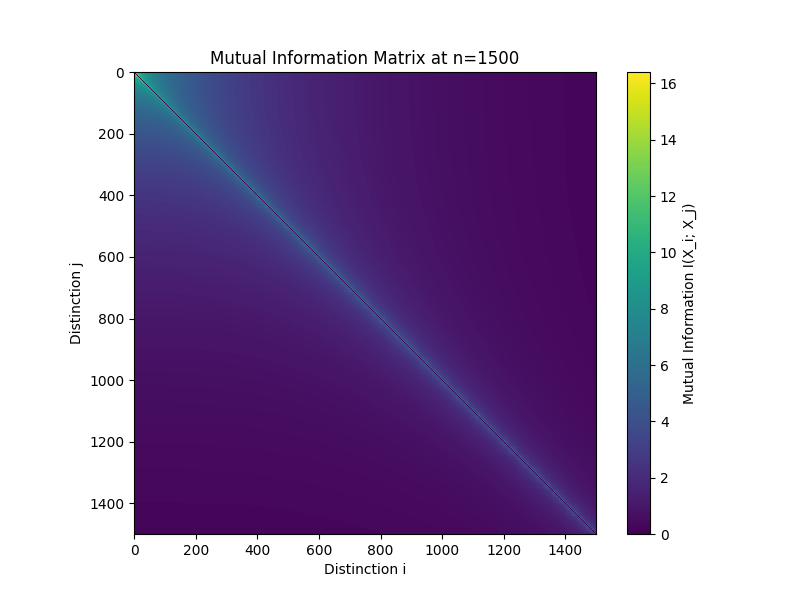
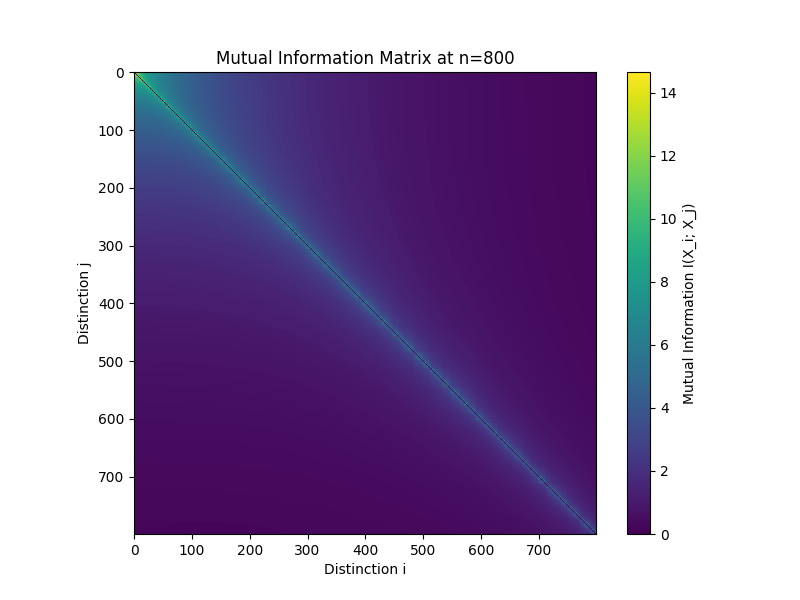
modified:   GU_DIM_Trans.py modified:   eigenvalue_ratios.png modified:   golomb_ruler_growth.png modified:   informational_curvature.png modified:   mutual_information_matrix.png

diff --git a/GU_DIM_Trans.py b/GU_DIM_Trans.py
@@ -100,7 +100,7 @@ def compute_metrics(G):
     return d_min, l_info, R_n, W
 
 def compute_embedding(G, dim):
-    """Compute spectral embedding in 2D or 3D using Laplacian eigenvectors"""
+    """Compute spectral embedding in 2D, 3D, or 4D using Laplacian eigenvectors"""
     n = len(G)
     if n < 2:
         return np.zeros((n, dim))
@@ -121,31 +121,34 @@ def compute_embedding(G, dim):
 def check_transitions(G, d_min, l_info, R_n):
     n = len(G)
     if n < 10:
-        return False, False, 0.0, 0.0
+        return False, False, False, 0.0, 0.0, 0.0
 
     try:
         _, _, _, W = compute_metrics(G)
         D = np.diag(np.sum(W, axis=1))
         L = D - W 
                                                                
-        eigenvalues = eigh(L, eigvals_only=True, subset_by_index=[0, 3])
-        λ0, λ1, λ2, λ3 = eigenvalues
+        eigenvalues = eigh(L, eigvals_only=True, subset_by_index=[0, 4])
+        λ0, λ1, λ2, λ3, λ4 = eigenvalues
 
         λ1 = max(λ1, 1e-8)
         λ2 = max(λ2, 1e-8)
         λ3 = max(λ3, 1e-8)
+        λ4 = max(λ4, 1e-8)
 
         r1 = λ2 / λ1  # For 1D→2D
         r2 = λ3 / λ2  # For 2D→3D
+        r3 = λ4 / λ3  # For 3D→4D
 
         transition_2D = (r1 > 1.3 and R_n > 1.3)
         transition_3D = (r2 > 1.15 and R_n > 2.2)
+        transition_4D = (r3 > 1.01 and R_n > 3.0)
 
-        return transition_2D, transition_3D, r1, r2
+        return transition_2D, transition_3D, transition_4D, r1, r2, r3
                                                                                                    
     except Exception as e:
         print("Error in check_transitions:", e)
-        return False, False, 0.0, 0.0
+        return False, False, False, 0.0, 0.0, 0.0
 
 def validate_golomb(G):
     """Validate that G is a Golomb ruler (all pairwise differences are unique)"""
@@ -161,7 +164,7 @@ def validate_golomb(G):
 def plot_results(G_full, results, metrics_history):
     """Generate and display graphical outputs for Golomb ruler, mutual information, eigenvalues, transitions, and embeddings"""
     n_max = len(G_full)
-    ns, d_mins, l_infos, R_ns, r1s, r2s = metrics_history
+    ns, d_mins, l_infos, R_ns, r1s, r2s, r3s = metrics_history
 
     # Plot 1: Golomb Ruler Growth
     plt.figure(figsize=(10, 6))
@@ -191,12 +194,16 @@ def plot_results(G_full, results, metrics_history):
     plt.figure(figsize=(10, 6))
     plt.plot(ns, r1s, label='λ₂/λ₁ (1D→2D)')
     plt.plot(ns, r2s, label='λ₃/λ₂ (2D→3D)')
+    plt.plot(ns, r3s, label='λ₄/λ₃ (3D→4D)')
     plt.axhline(y=1.3, color='r', linestyle='--', label='1D→2D Threshold (1.3)')
     plt.axhline(y=1.15, color='g', linestyle='--', label='2D→3D Threshold (1.15)')
+    plt.axhline(y=1.1, color='b', linestyle='--', label='3D→4D Threshold (1.1)')
     if results.get('2D') is not None:
         plt.axvline(x=results.get('2D'), color='r', linestyle=':', label=f'1D→2D at n={results.get("2D")}')
     if results.get('3D') is not None:
         plt.axvline(x=results.get('3D'), color='g', linestyle=':', label=f'2D→3D at n={results.get("3D")}')
+    if results.get('4D') is not None:
+        plt.axvline(x=results.get('4D'), color='b', linestyle=':', label=f'3D→4D at n={results.get("4D")}')
     plt.xlabel('Number of Distinctions (n)')
     plt.ylabel('Eigenvalue Ratios')
     plt.title('Eigenvalue Ratios for Dimensional Transitions')
@@ -211,10 +218,13 @@ def plot_results(G_full, results, metrics_history):
     plt.plot(ns, R_ns, label='R_n')
     plt.axhline(y=1.3, color='r', linestyle='--', label='1D→2D Threshold (1.3)')
     plt.axhline(y=2.2, color='g', linestyle='--', label='2D→3D Threshold (2.2)')
+    plt.axhline(y=3.0, color='b', linestyle='--', label='3D→4D Threshold (3.0)')
     if results.get('2D') is not None:
         plt.axvline(x=results.get('2D'), color='r', linestyle=':', label=f'1D→2D at n={results.get("2D")}')
     if results.get('3D') is not None:
         plt.axvline(x=results.get('3D'), color='g', linestyle=':', label=f'2D→3D at n={results.get("3D")}')
+    if results.get('4D') is not None:
+        plt.axvline(x=results.get('4D'), color='b', linestyle=':', label=f'3D→4D at n={results.get("4D")}')
     plt.xlabel('Number of Distinctions (n)')
     plt.ylabel('Informational Curvature (R_n)')
     plt.title('Informational Curvature Evolution')
@@ -257,25 +267,30 @@ def plot_results(G_full, results, metrics_history):
 
 def print_summary(results, metrics_history):
     """Print a summary table of essential calculated values"""
-    ns, d_mins, l_infos, R_ns, r1s, r2s = metrics_history
+    ns, d_mins, l_infos, R_ns, r1s, r2s, r3s = metrics_history
     print("\nSummary of Essential Calculated Values:")
-    print("-" * 50)
-    print(f"{'n':>5} | {'d_min':>8} | {'l_info':>8} | {'R_n':>8} | {'λ₂/λ₁':>8} | {'λ₃/λ₂':>8}")
-    print("-" * 50)
+    print("-" * 60)
+    print(f"{'n':>5} | {'d_min':>8} | {'l_info':>8} | {'R_n':>8} | {'λ₂/λ₁':>8} | {'λ₃/λ₂':>8} | {'λ₄/λ₃':>8}")
+    print("-" * 60)
     
     # Print at 2D transition
     if results["2D"] is not None:
         idx = results["2D"] - 1
-        print(f"{ns[idx]:>5} | {d_mins[idx]:>8.3f} | {l_infos[idx]:>8.3f} | {R_ns[idx]:>8.3f} | {r1s[idx]:>8.3f} | {r2s[idx]:>8.3f} (2D Transition)")
+        print(f"{ns[idx]:>5} | {d_mins[idx]:>8.3f} | {l_infos[idx]:>8.3f} | {R_ns[idx]:>8.3f} | {r1s[idx]:>8.3f} | {r2s[idx]:>8.3f} | {r3s[idx]:>8.3f} (2D Transition)")
     
     # Print at 3D transition
     if results["3D"] is not None:
         idx = results["3D"] - 1
-        print(f"{ns[idx]:>5} | {d_mins[idx]:>8.3f} | {l_infos[idx]:>8.3f} | {R_ns[idx]:>8.3f} | {r1s[idx]:>8.3f} | {r2s[idx]:>8.3f} (3D Transition)")
+        print(f"{ns[idx]:>5} | {d_mins[idx]:>8.3f} | {l_infos[idx]:>8.3f} | {R_ns[idx]:>8.3f} | {r1s[idx]:>8.3f} | {r2s[idx]:>8.3f} | {r3s[idx]:>8.3f} (3D Transition)")
+    
+    # Print at 4D transition
+    if results["4D"] is not None:
+        idx = results["4D"] - 1
+        print(f"{ns[idx]:>5} | {d_mins[idx]:>8.3f} | {l_infos[idx]:>8.3f} | {R_ns[idx]:>8.3f} | {r1s[idx]:>8.3f} | {r2s[idx]:>8.3f} | {r3s[idx]:>8.3f} (4D Transition)")
     
     # Print at final n
     idx = len(ns) - 1
-    print(f"{ns[idx]:>5} | {d_mins[idx]:>8.3f} | {l_infos[idx]:>8.3f} | {R_ns[idx]:>8.3f} | {r1s[idx]:>8.3f} | {r2s[idx]:>8.3f} (Final)")
+    print(f"{ns[idx]:>5} | {d_mins[idx]:>8.3f} | {l_infos[idx]:>8.3f} | {R_ns[idx]:>8.3f} | {r1s[idx]:>8.3f} | {r2s[idx]:>8.3f} | {r3s[idx]:>8.3f} (Final)")
 
 def print_validation(G, results):
     """Print enhanced validation parameters to confirm compliance with the framework"""
@@ -289,26 +304,27 @@ def print_validation(G, results):
     temporal_valid = np.all(np.diff(G) > 0)
     print(f"Temporal Order (Axiom III, G[i] < G[i+1]): {'Valid' if temporal_valid else 'Invalid'}")
     
-    # Validate dimensional transitions
+    # Validate 1D→2D transition
     if results["2D"] is not None:
         G_2D = G[:results["2D"]]
         d_min, l_info, R_n, W = compute_metrics(G_2D)
-        _, _, r1, r2 = check_transitions(G_2D, d_min, l_info, R_n)
+        _, _, _, r1, r2, r3 = check_transitions(G_2D, d_min, l_info, R_n)
         
-        # Compute energy functional (Axiom V) with absolute value
+        # Compute energy functional (Axiom V)
         n = len(G_2D)
-        d_ij = 1 / (1 + W)
+        d_ij = 1 / (1 + W)          
         np.fill_diagonal(d_ij, np.inf)
         E_n = np.sum(np.abs(1 / d_ij[d_ij < np.inf]**2 - 1 / l_info**2)) / 2
         
         # Compute spectral gaps
         D = np.diag(np.sum(W, axis=1))
         L = D - W
-        eigenvalues = eigh(L, eigvals_only=True, subset_by_index=[0, 3])
-        λ0, λ1, λ2, λ3 = eigenvalues
+        eigenvalues = eigh(L, eigvals_only=True, subset_by_index=[0, 4])
+        λ0, λ1, λ2, λ3, λ4 = eigenvalues
         gap1 = λ1
         gap2 = λ2 - λ1
         gap3 = λ3 - λ2
+        gap4 = λ4 - λ3
         
         # Compute embedding distortion in 2D
         embedding_2D = compute_embedding(G_2D, 2)
@@ -320,15 +336,16 @@ def print_validation(G, results):
         print(f"  λ₂/λ₁ = {r1:.3f} (> 1.3: {'Valid' if r1 > 1.3 else 'Invalid'})")
         print(f"  R_n = {R_n:.3f} (> 1.3: {'Valid' if R_n > 1.3 else 'Invalid'})")
         print(f"  Energy Functional (Axiom V): E_n = {E_n:.3f} (>= 0: {'Valid' if E_n >= 0 else 'Invalid'})")
-        print(f"  Spectral Gaps (Annex H): λ₁ = {gap1:.3f}, λ₂-λ₁ = {gap2:.3f}, λ₃-λ₂ = {gap3:.3f}")
+        print(f"  Spectral Gaps (Annex H): λ₁ = {gap1:.3f}, λ₂-λ₁ = {gap2:.3f}, λ₃-λ₂ = {gap3:.3f}, λ₄-λ₃ = {gap4:.3f}")
         print(f"  2D Embedding Distortion (Annex D): {distortion:.3f}")
     
+    # Validate 2D→3D transition
     if results["3D"] is not None:
         G_3D = G[:results["3D"]]
         d_min, l_info, R_n, W = compute_metrics(G_3D)
-        _, _, r1, r2 = check_transitions(G_3D, d_min, l_info, R_n)
+        _, _, _, r1, r2, r3 = check_transitions(G_3D, d_min, l_info, R_n)
         
-        # Compute energy functional with absolute value
+        # Compute energy functional
         n = len(G_3D)
         d_ij = 1 / (1 + W)
         np.fill_diagonal(d_ij, np.inf)
@@ -337,11 +354,12 @@ def print_validation(G, results):
         # Compute spectral gaps
         D = np.diag(np.sum(W, axis=1))
         L = D - W
-        eigenvalues = eigh(L, eigvals_only=True, subset_by_index=[0, 3])
-        λ0, λ1, λ2, λ3 = eigenvalues
+        eigenvalues = eigh(L, eigvals_only=True, subset_by_index=[0, 4])
+        λ0, λ1, λ2, λ3, λ4 = eigenvalues
         gap1 = λ1
         gap2 = λ2 - λ1
         gap3 = λ3 - λ2
+        gap4 = λ4 - λ3
         
         # Compute embedding distortion in 3D
         embedding_3D = compute_embedding(G_3D, 3)
@@ -353,12 +371,47 @@ def print_validation(G, results):
         print(f"  λ₃/λ₂ = {r2:.3f} (> 1.15: {'Valid' if r2 > 1.15 else 'Invalid'})")
         print(f"  R_n = {R_n:.3f} (> 2.2: {'Valid' if R_n > 2.2 else 'Invalid'})")
         print(f"  Energy Functional (Axiom V): E_n = {E_n:.3f} (>= 0: {'Valid' if E_n >= 0 else 'Invalid'})")
-        print(f"  Spectral Gaps (Annex H): λ₁ = {gap1:.3f}, λ₂-λ₁ = {gap2:.3f}, λ₃-λ₂ = {gap3:.3f}")
+        print(f"  Spectral Gaps (Annex H): λ₁ = {gap1:.3f}, λ₂-λ₁ = {gap2:.3f}, λ₃-λ₂ = {gap3:.3f}, λ₄-λ₃ = {gap4:.3f}")
         print(f"  3D Embedding Distortion (Annex D): {distortion:.3f}")
+    
+    # Validate 3D→4D transition
+    if results["4D"] is not None:
+        G_4D = G[:results["4D"]]
+        d_min, l_info, R_n, W = compute_metrics(G_4D)
+        _, _, _, r1, r2, r3 = check_transitions(G_4D, d_min, l_info, R_n)
+        
+        # Compute energy functional
+        n = len(G_4D)
+        d_ij = 1 / (1 + W)
+        np.fill_diagonal(d_ij, np.inf)
+        E_n = np.sum(np.abs(1 / d_ij[d_ij < np.inf]**2 - 1 / l_info**2)) / 2
+        
+        # Compute spectral gaps
+        D = np.diag(np.sum(W, axis=1))
+        L = D - W
+        eigenvalues = eigh(L, eigvals_only=True, subset_by_index=[0, 4])
+        λ0, λ1, λ2, λ3, λ4 = eigenvalues
+        gap1 = λ1
+        gap2 = λ2 - λ1
+        gap3 = λ3 - λ2
+        gap4 = λ4 - λ3
+        
+        # Compute embedding distortion in 4D
+        embedding_4D = compute_embedding(G_4D, 4)
+        euclidean_dists = np.sqrt(np.sum((embedding_4D[:, None] - embedding_4D)**2, axis=2))
+        np.fill_diagonal(d_ij, 0)
+        distortion = np.mean((euclidean_dists - d_ij)**2 / (d_ij**2 + 1e-16))
+        
+        print(f"\n3D→4D Transition at n={results['4D']}:")
+        print(f"  λ₄/λ₃ = {r3:.3f} (> 1.01: {'Valid' if r3 > 1.01 else 'Invalid'})")
+        print(f"  R_n = {R_n:.3f} (> 3.0: {'Valid' if R_n > 3.0 else 'Invalid'})")
+        print(f"  Energy Functional (Axiom V): E_n = {E_n:.3f} (>= 0: {'Valid' if E_n >= 0 else 'Invalid'})")
+        print(f"  Spectral Gaps (Annex H): λ₁ = {gap1:.3f}, λ₂-λ₁ = {gap2:.3f}, λ₃-λ₂ = {gap3:.3f}, λ₄-λ₃ = {gap4:.3f}")
+        print(f"  4D Embedding Distortion (Annex D): {distortion:.3f}")
 
 def simulate(n_max):
     """Efficient simulation with reused Golomb ruler prefix, enhanced with plotting and validation"""
-    results = {"2D": None, "3D": None}
+    results = {"2D": None, "3D": None, "4D": None}
     G_full = generate_golomb(n_max)
     
     # Store metrics for plotting
@@ -368,11 +421,12 @@ def simulate(n_max):
     R_ns = []
     r1s = []
     r2s = []
+    r3s = []
 
     for n in range(1, n_max + 1):
         G = G_full[:n]
         d_min, l_info, R_n, _ = compute_metrics(G)
-        t2d, t3d, r1, r2 = check_transitions(G, d_min, l_info, R_n)
+        t2d, t3d, t4d, r1, r2, r3 = check_transitions(G, d_min, l_info, R_n)
 
         ns.append(n)
         d_mins.append(d_min)
@@ -380,20 +434,23 @@ def simulate(n_max):
         R_ns.append(R_n)
         r1s.append(r1)
         r2s.append(r2)
+        r3s.append(r3)
 
         if t2d and results["2D"] is None:
             results["2D"] = n                       
         if t3d and results["2D"] is not None and results["3D"] is None:
-            results["3D"] = n                             
+            results["3D"] = n
+        if t4d and results["3D"] is not None and results["4D"] is None:
+            results["4D"] = n
 
         if n % 10 == 0:
             print(f"Progress: n={n}, d_min={d_min:.3f}, l_info={l_info:.3f}, R_n={R_n:.3f}")
     
     # Generate and display plots
-    plot_results(G_full, results, (ns, d_mins, l_infos, R_ns, r1s, r2s))
+    plot_results(G_full, results, (ns, d_mins, l_infos, R_ns, r1s, r2s, r3s))
     
     # Print summary
-    print_summary(results, (ns, d_mins, l_infos, R_ns, r1s, r2s))
+    print_summary(results, (ns, d_mins, l_infos, R_ns, r1s, r2s, r3s))
     
     # Print validation
     print_validation(G_full, results)
@@ -402,7 +459,8 @@ def simulate(n_max):
 
 # Run simulation
 print("Starting simulation...")
-results = simulate(1500)
+results = simulate(800)
 print("\nFinal Results:")
 print(f"1D→2D transition at n={results['2D']}")
 print(f"2D→3D transition at n={results['3D']}")
+print(f"3D→4D transition at n={results['4D']}")
